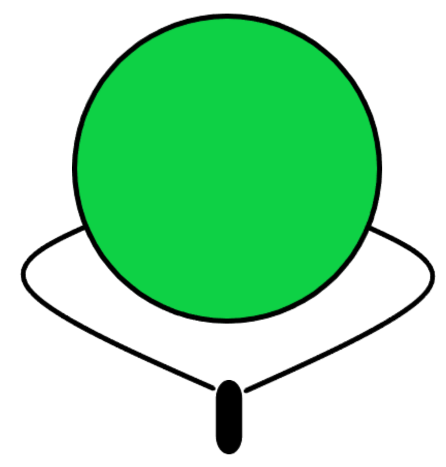
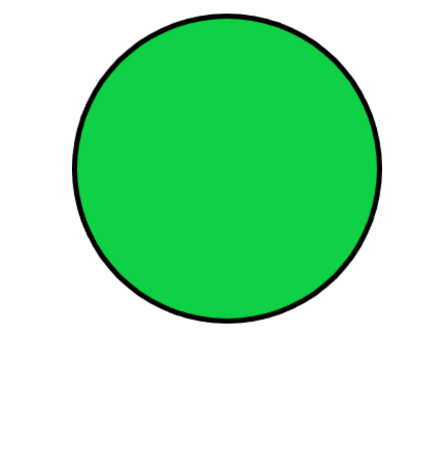
changed images to be separate from the hands

diff --git a/Guy.java b/Guy.java
@@ -15,10 +15,8 @@ public class Guy extends Actor
     
     public Guy()
     {
-        GreenfootImage guyImage = new GreenfootImage(40, 40);
-        guyImage.setColor(Color.GREEN);
-        guyImage.drawOval(0, 0, 40, 40);
-        guyImage.fillOval(0, 0, 40, 40);
+        GreenfootImage guyImage = new GreenfootImage("green guy.png");
+        guyImage.scale(70, 70);
         this.setImage(guyImage);
     }
     
@@ -49,7 +47,7 @@ public class Guy extends Actor
     
     public boolean isGrounded()
     {
-        floor = getOneObjectAtOffset(0, 20, Floor.class);
+        floor = getOneObjectAtOffset(0, 15, Floor.class);
         return floor != null;
     }
     
@@ -57,7 +55,7 @@ public class Guy extends Actor
     {
         if(isGrounded())
         {
-            setLocation(getX(), floor.getY() - 20);
+            setLocation(getX(), floor.getY() - 15);
             vSpeed = 0;
         }
         else
